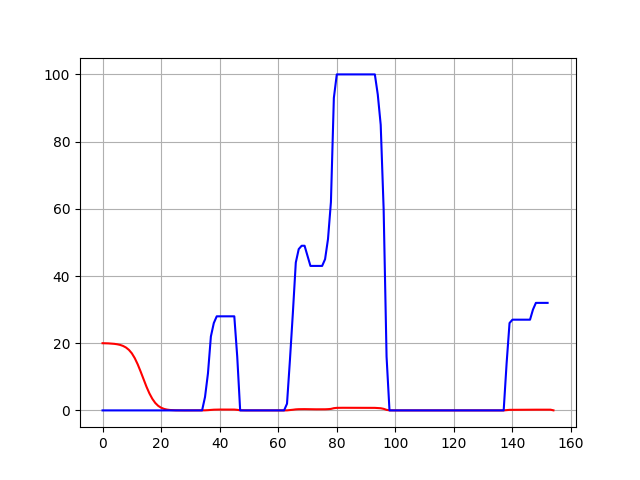
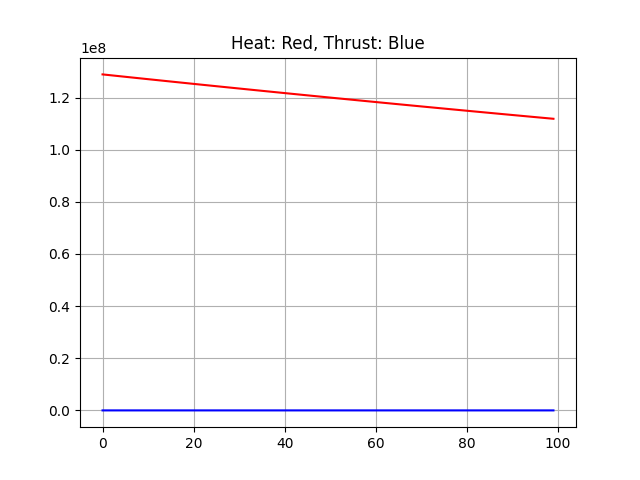
heat control doesnt work still

diff --git a/motor_test.py b/motor_test.py
@@ -1,6 +1,7 @@
 import matplotlib.pyplot as plt
 import time
 from simple_pid import PID
+from collections import deque
 
 from electric_motor import Motor
 from loader import Loader
@@ -12,19 +13,20 @@ loader = Loader(attributes_to_pick)
 logs = loader.load()
 
 
-controller_motor = PID(1,1,1,setpoint=20,output_limits=(0.1,1000))
+controller_motor = PID(.01,100,0,setpoint=20,output_limits=(.0001,1000000))
 
 
 motor = Motor(20,100)
-heats = [20]
-cont_inp_list = []
+heats = deque([],maxlen=100)
+cont_inp_list = deque([],maxlen=100)
 for i in range(logs.shape[0]):
     cont_inp = controller_motor(motor.temperature)
-    heats.append(motor.step(logs[i,0],cont_inp,0))
+    heats.append(int(motor.step(logs[i,0],cont_inp,1)))
     cont_inp_list.append(cont_inp)
     plt.grid(True)
+    plt.title("Heat: Red, Thrust: Blue")
     plt.plot(heats,"red")
-    plt.plot(logs[:i,0],"blue")
+    plt.plot(logs[i-100:i,0],"blue")
     plt.savefig("motor_sim.png")
     plt.clf()
     plt.grid(True)

diff --git a/electric_motor.py b/electric_motor.py
@@ -28,11 +28,10 @@ class Motor():
         # assuming constant specific heat
         # assuming the excess mass will just be emitted out of the motor
         c_hydr = 14.3 #J/(gK)
-        ref_temp = 0
         # heat motor due to thrust
-        q_prod = 8.5*thrust*(1+1*(self.temperature-ref_temp)) #J
-        self.temperature += q_prod/(self.volume_reservoir*c_hydr)
-
-        # cool motor due to fluidflow
-        self.temperature = ((fluid_temperature*fluidflow)+(self.temperature*self.volume_reservoir)) /(self.volume_reservoir+fluidflow)
+        q_prod = thrust*.04 #J
+        q_cool = -c_hydr*fluidflow*(self.temperature-fluid_temperature)
+        print(q_cool)
+        q_bil = q_cool+q_prod
+        self.temperature += q_bil
         return self.temperature
